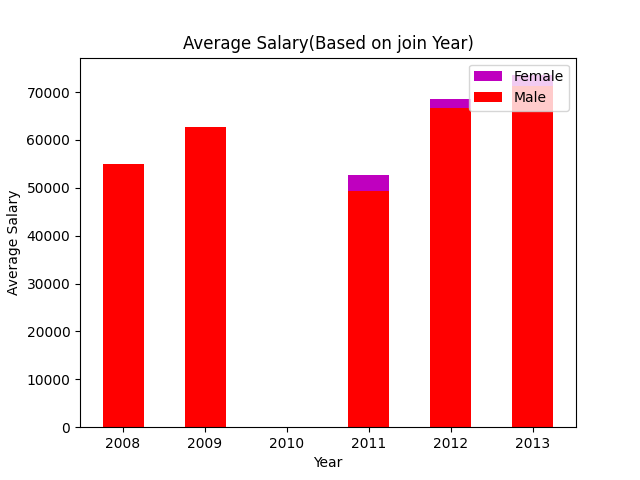
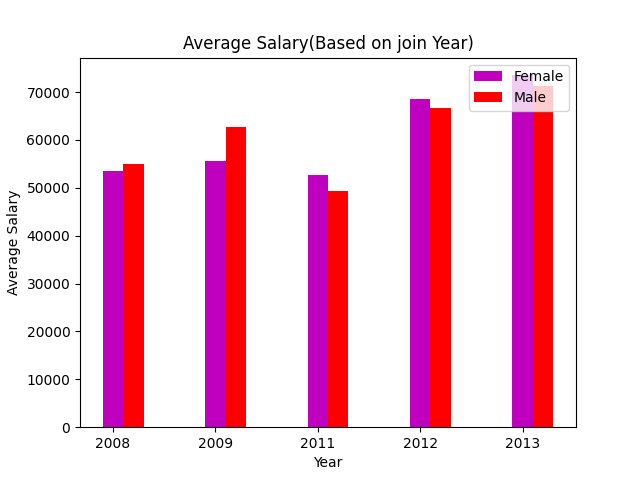
matplotlib

diff --git a/plot.py b/plot.py
@@ -3,6 +3,7 @@ from matplotlib import style
 import pandas
 import os
 from fpdf import FPDF
+import numpy as np
 
 data = pandas.read_csv("data.csv")
 sorted_gender = data.sort_values("Gender")
@@ -12,6 +13,7 @@ sorted_join_year = data.sort_values("Year of Joining")
 CURRENT_DIR = os.path.dirname(os.path.abspath(__file__))
 FILE_NAME = os.path.join(CURRENT_DIR, "plotter_images")
 
+'''
 def create_plot(title, xlabel, ylabel, filename):
     plt.title(title)
     plt.ylabel(ylabel)
@@ -19,6 +21,7 @@ def create_plot(title, xlabel, ylabel, filename):
     plt.legend(loc ="upper right", prop={"size":10})
     filepath = os.path.join(FILE_NAME, filename)
     plt.savefig(filepath)
+
 def create_histogram():
     age_employee = sorted_gender["Age"].tolist()
     bins = []
@@ -53,7 +56,10 @@ def create_line_graph():
 def create_bar_graph():
     year_of_join = sorted_join_year["Year of Joining"].tolist()
     join_year = []
+    width = 0.2
     [join_year.append(x) for x in year_of_join if x not in join_year]
+    join_year_female = np.arange(len(join_year))
+    join_year_male = [ i+width for i in join_year_female ]
     gender_female = sorted_gender[sorted_gender["Gender"] == "Female"]
     gender_male = sorted_gender[sorted_gender["Gender"] == "Male"]
     Average_salary_female = []
@@ -64,12 +70,10 @@ def create_bar_graph():
     for j in join_year:
         z = gender_male[gender_male["Year of Joining"] == j]["Salary"].mean()
         Average_salary_male.append(z)
-    plt.bar(join_year,Average_salary_female,
-    label="Female",color='m',width=.5)
-    plt.bar(join_year,Average_salary_male,
-    label="Male", color='r',width=.5)
+    plt.bar(join_year_female,Average_salary_female, label="Female",color='m', width=width)
+    plt.bar(join_year_male,Average_salary_male, label="Male", color='r', width=width)
+    plt.xticks(join_year_female, join_year)
     create_plot('Average Salary(Based on join Year)', 'Year', 'Average Salary', "02_bar_graph")
-
 def create_scatter_plot():
     gender_female = sorted_gender[sorted_gender["Gender"] == "Female"]
     gender_male = sorted_gender[sorted_gender["Gender"] == "Male"]
@@ -105,6 +109,7 @@ def create_pie_chart():
     filepath = os.path.join(FILE_NAME, '05_pie_chart')
     plt.savefig(filepath)
 
+'''
 def create_pdf():
     pdf = FPDF(orientation='P', unit='mm', format='A4')
     pdf.add_page()
@@ -130,9 +135,9 @@ def create_pdf():
     pdf.output(pdf_file,'F')
 
 if __name__ == "__main__":
-    create_histogram()
-    create_line_graph()
-    create_bar_graph()
-    create_scatter_plot()
-    create_pie_chart()
+#    create_histogram()
+#    create_line_graph()
+#   create_bar_graph()
+#    create_scatter_plot()
+#    create_pie_chart()
     create_pdf()
